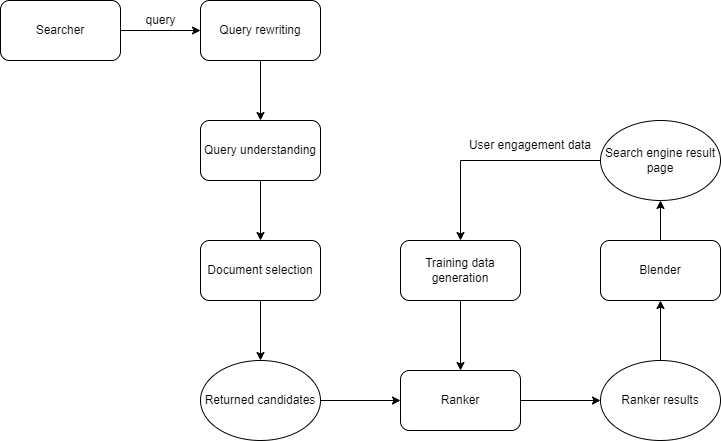
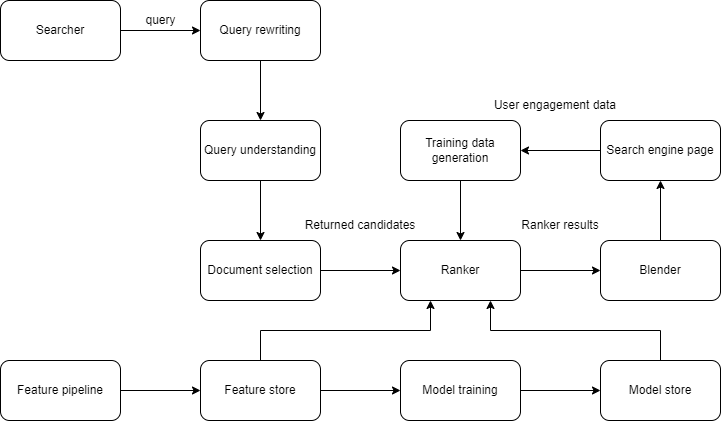
Update Requirement notes

diff --git a/other/system-design.html b/other/system-design.html
@@ -24,8 +24,11 @@
 <script src="/js/jquery.min.js"></script>
 <script src="/js/bootstrap.bundle.min.js"></script>
 <script src="/js/highlight.pack.js"></script>
-<script type="text/javascript" src="/js/include_html.js"></script>
-<script type="text/javascript" src="/js/site.js"></script>
+<script src="/js/tex-mml-chtml.js" type="text/javascript"></script>
+<script src="/js/include_html.js" type="text/javascript"></script>
+<script src="https://polyfill.io/v3/polyfill.min.js?features=es6"></script>
+<script id="MathJax-script" async src="https://cdn.jsdelivr.net/npm/mathjax@3/es5/tex-mml-chtml.js"></script>
+<script src="/js/site.js" type="text/javascript"></script>
 
 </head>
 
@@ -2998,8 +3001,14 @@
     <h3 class="card-title">Requirement</h3>
 
     <h4 class="card-title">Training</h4>
+    <ul>
+      <li>Split training data and validation data by time.</li>
+    </ul>
 
     <h4 class="card-title">Inference</h4>
+    <ul>
+      <li>Serving: low latency (50ms - 100ms) for search ranking.</li>
+    </ul>
 
     <h3 class="card-title">Estimation</h3>
     <ul>
@@ -3031,18 +3040,18 @@
     <h4 class="card-title">Offline</h4>
     <ul>
       <li>Ground truth: actual outputs desired by the system. In this case, it is the rating provided by humans.</li>
-      <li>Assume the search engine returns documents D1, D2, D3, D4 in the order of relevance.</li>
-      <li>Assume human rates the documents on scale of 0-3(3 is highly relevant, 0 is merely relevant) such that</li>
+      <li>Assume the search engine returns documents \( D1, D2, D3, D4 \) in the order of relevance.</li>
+      <li>Assume human rates the documents on scale of 0-3 (3 is highly relevant, 0 is merely relevant) such that</li>
       <ul>
-        <li>D1=3, D2=2, D3=3, D4=0</li>
+        <li>\( D1=3, D2=2, D3=3, D4=0 \)</li>
       </ul>
       <li>Cumulative gain simply adds</li>
       <ul>
-        <li>3+2+3+0 = 8</li>
+        <li>\( 3 + 2 + 3 + 0 = 8 \)</li>
       </ul>
       <li>Discounted cumulative gain (DCG) penalizes if highly relevant document appears lower in the result.</li>
       <ul>
-        <li>3/log(1+1) + 2/log(2+1) + 3/log(3+1) + 0/log(4+1) = 3 + 1.262 + 1.5 + 0 = 5.762</li>
+        <li>\( 3/log(1+1) + 2/log(2+1) + 3/log(3+1) + 0/log(4+1) = 3 + 1.262 + 1.5 + 0 = 5.762 \)</li>
       </ul>
       <li>Normalized discounted cumulative gain (NDCG) is computed by (DCG / IDCG) where IDCG is DCG of ideal ordering.</li>
       <ul>
@@ -3089,6 +3098,21 @@
     <h4 class="card-title">Training data generation</h4>
     <ul>
       <li>Generate positive and negative example from online data.</li>
+    </ul>
+
+    <h4 class="card-title">Feature pipeline</h4>
+    <ul>
+      <li>Process online features.</li>
+    </ul>
+
+    <h4 class="card-title">Feature store</h4>
+    <ul>
+      <li>Need low latency (<10ms) to access features before scoring. (MySQL, Redis, DynamoDB)</li>
+    </ul>
+
+    <h4 class="card-title">Model Store</h4>
+    <ul>
+      <li>Distributed storage like S3</li>
     </ul>
 
     <h3 class="card-title">Feature engineering</h3>
